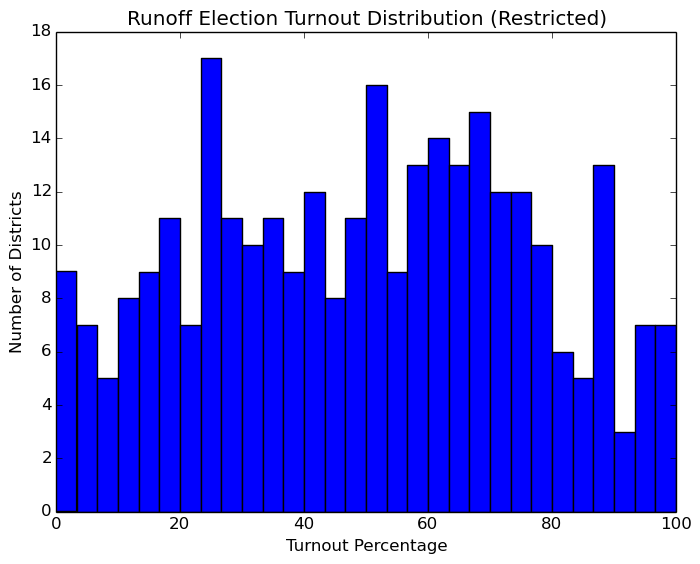
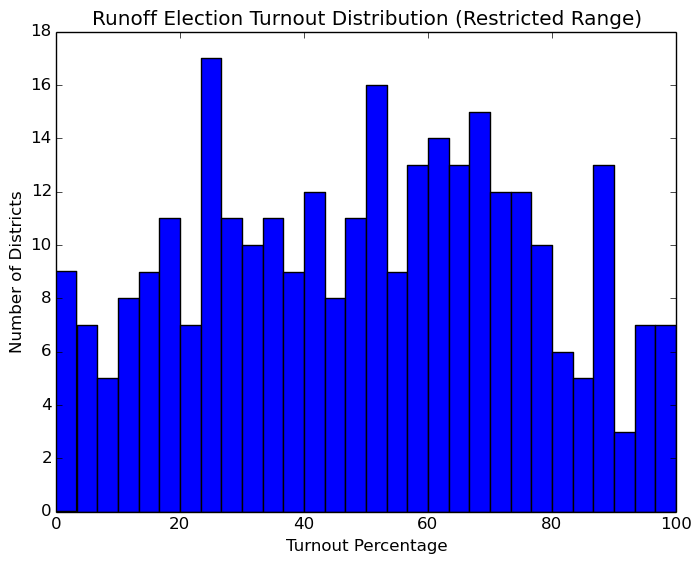
Minor change to [0, 100] runoff turnout histogram.

Changed region(s): [[0.12, 0.0, 0.93, 0.0603]]

diff --git a/python/turnout_distrib.py b/python/turnout_distrib.py
@@ -295,7 +295,7 @@ if __name__ == "__main__":
     plt.xlabel("Turnout Percentage")
     plt.ylabel("Number of Districts")
     plt.xlim([0.0, 100.0])
-    plt.title("Runoff Election Turnout Distribution (Restricted)")
+    plt.title("Runoff Election Turnout Distribution (Restricted Range)")
 
     plt.savefig(RUNOFF_ELECTION_TURNOUT_DISTRIB_RESTR,
                 bbox_inches = "tight")
